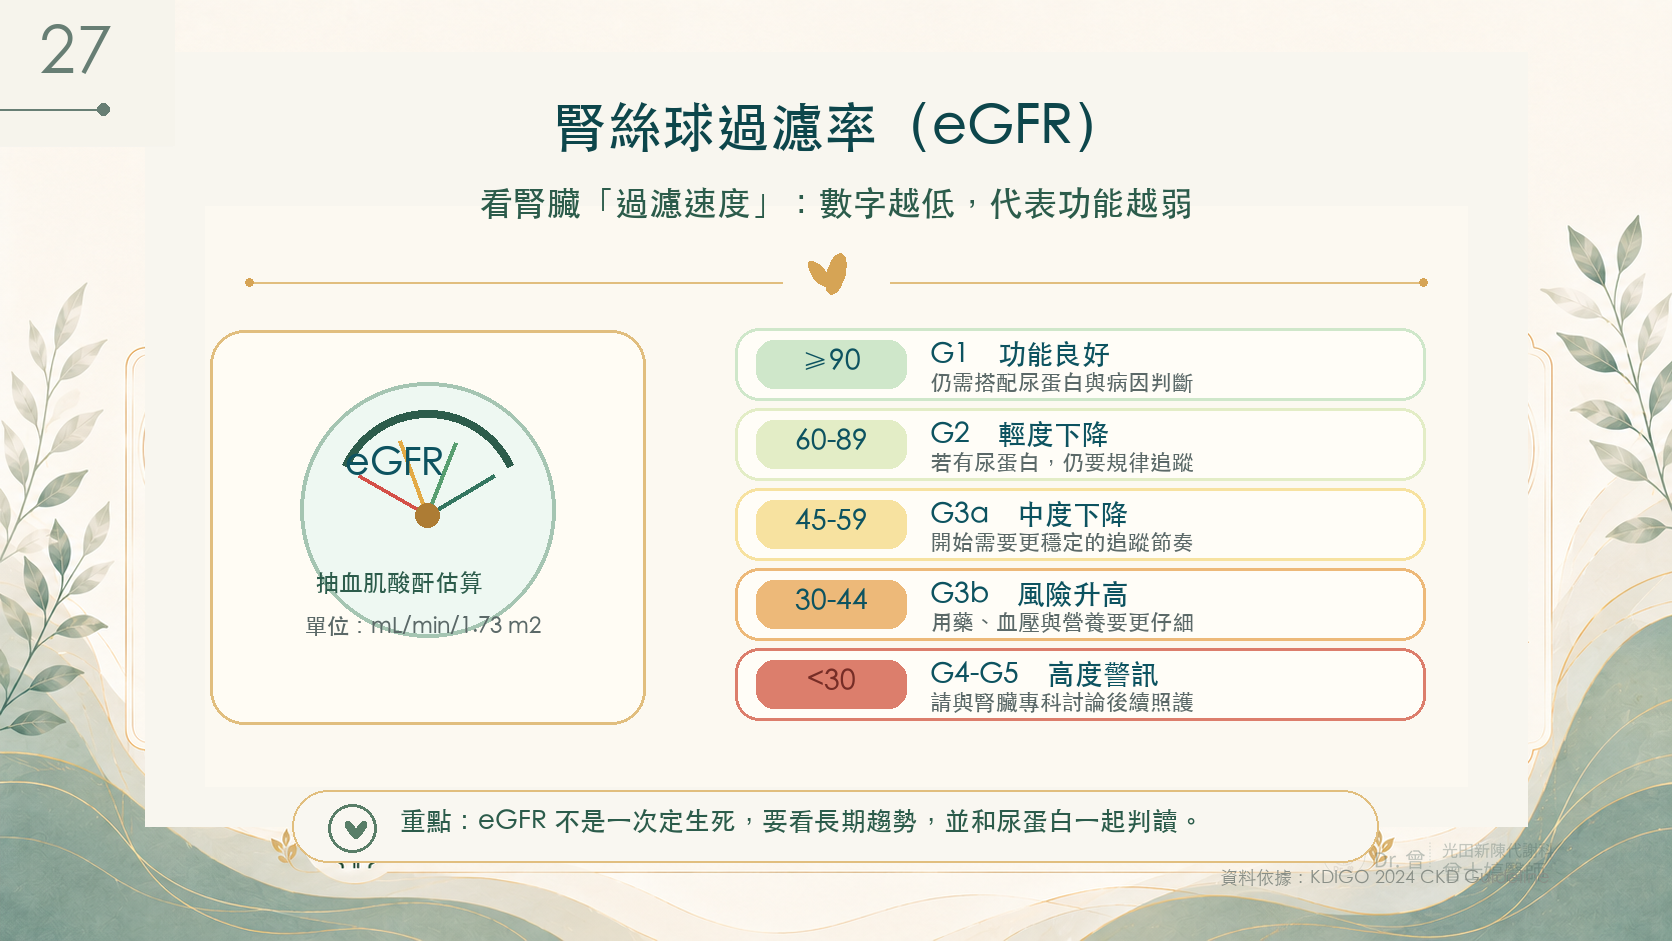
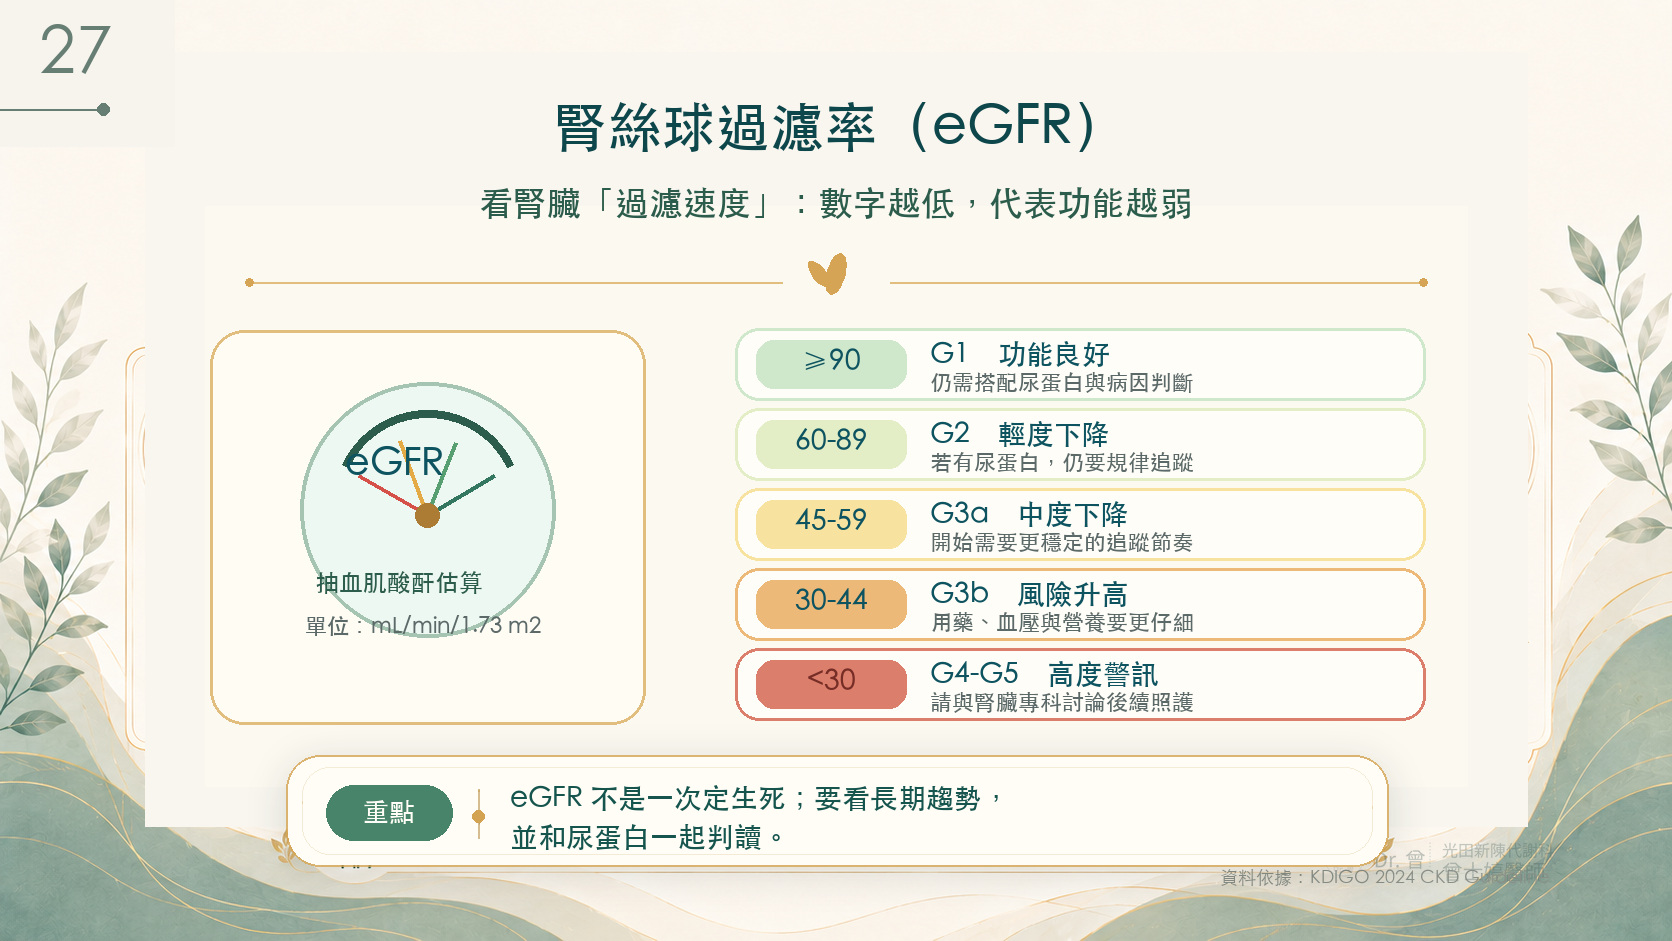
Polish kidney risk slide footers

Changed region(s): [[0.1555, 0.8013, 0.8397, 0.9245]]

diff --git a/index.html b/index.html
@@ -10,7 +10,7 @@
 <body>
   <main id="stage" aria-label="簡報播放區">
     <div id="deck" tabindex="0" aria-live="polite">
-      <img id="slide" src="slides/slide-01.png?v=20260802-glp1ra-mechanism" alt="第 1 張投影片" draggable="false">
+      <img id="slide" src="slides/slide-01.png?v=20260805-egfr-uacr-risk-polish" alt="第 1 張投影片" draggable="false">
       <video id="slideVideo" class="slide-media" controls playsinline preload="metadata" hidden></video>
     </div>
 
@@ -68,6 +68,6 @@
       </div>
     </aside>
   </main>
-  <script src="app.js?v=20260802-glp1ra-mechanism"></script>
+  <script src="app.js?v=20260805-egfr-uacr-risk-polish"></script>
 </body>
 </html>

diff --git a/app.js b/app.js
@@ -35,7 +35,7 @@
   let touchStartX = null;
   let wakeTimer;
   let notes = loadNotes();
-  const ASSET_VERSION = '20260802-glp1ra-mechanism';
+  const ASSET_VERSION = '20260805-egfr-uacr-risk-polish';
 
   const pathFor = n => `slides/slide-${String(n).padStart(2, '0')}.png?v=${ASSET_VERSION}`;
   const mediaPathFor = path => `${path}?v=${ASSET_VERSION}`;
